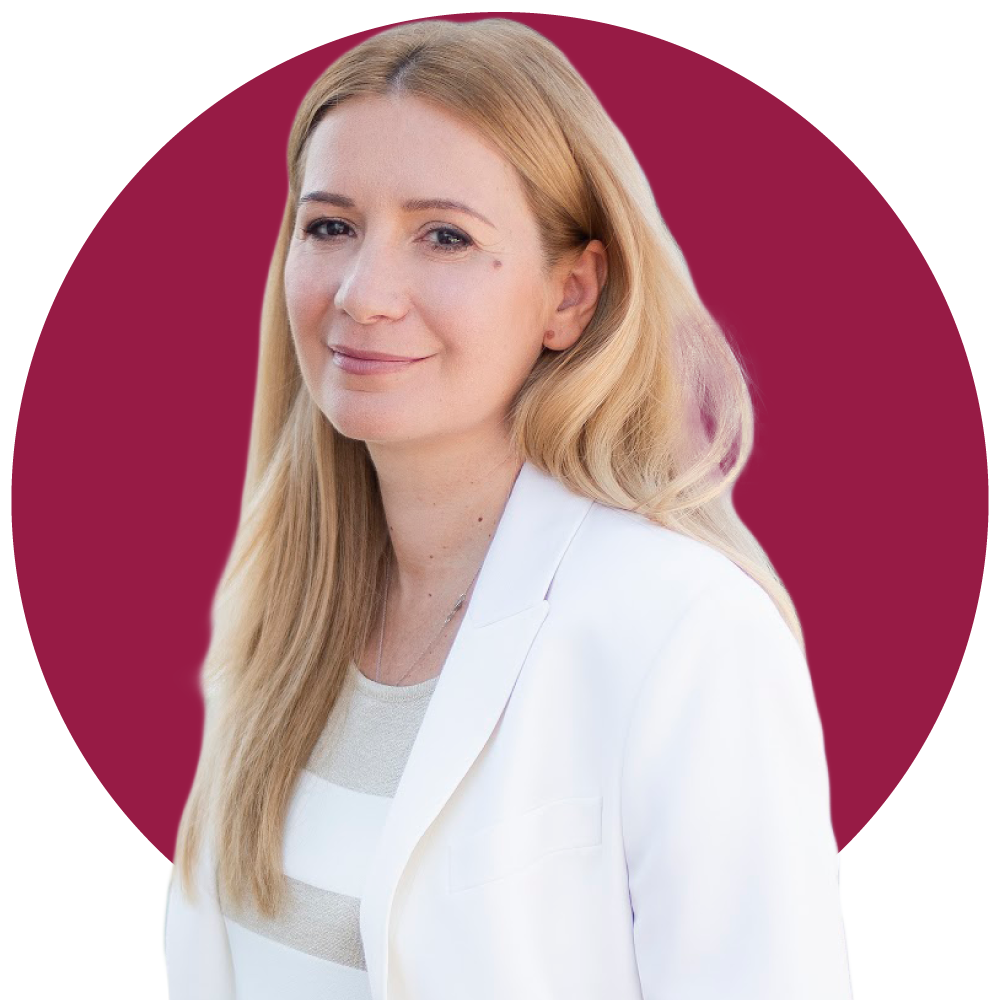
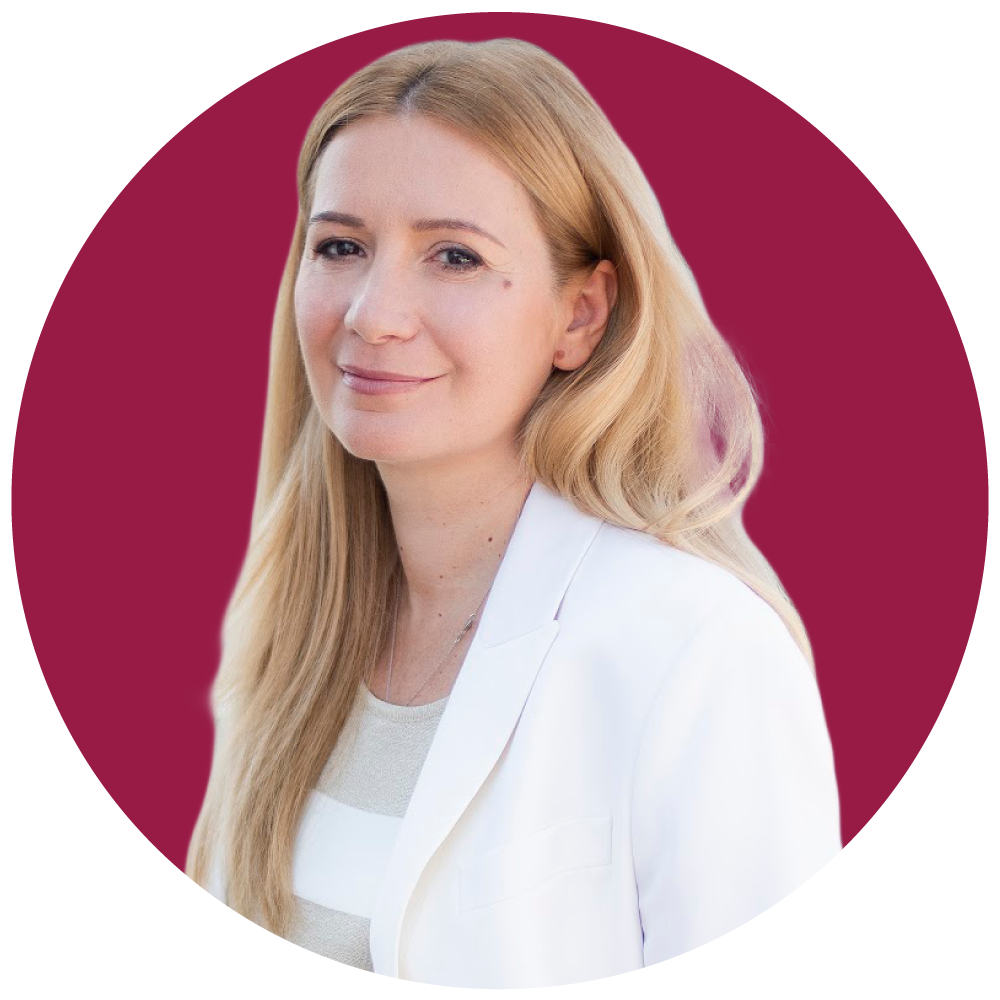
carousel changed layout

Changed region(s): [[0.155, 0.0, 0.868, 1.0], [0.62, 0.868, 0.682, 1.0]]

diff --git a/components/ui/CarouselWithText.js b/components/ui/CarouselWithText.js
@@ -11,7 +11,7 @@ const CarouselComponent = ({ locale, imgArr, textContent }) => {
       {textContent.map((item, index) => (
         <Carousel.Item key={index}>
           <Container>
-            <Row className="d-flex align-items-start">
+            <Row className="d-flex align-items-center">
               <Col xs="12" md="5" lg="4">
                 <Image
                   className="img-fluid d-block mx-auto"
@@ -35,7 +35,7 @@ const CarouselComponent = ({ locale, imgArr, textContent }) => {
 
                   <div className="-my-5 -py-5">
                     {item.quote.map((item, index) => (
-                      <p key={index} className="text-i-l blue mb-3">
+                      <p key={index} className="text-italic blue mb-3">
                         {item}
                       </p>
                     ))}

diff --git a/styles/_global.scss b/styles/_global.scss
@@ -64,8 +64,6 @@ body {
   line-height: normal;
   overflow-x: hidden;
   position: relative;
-
-  // background-color: #dadada;
 }
 
 #__next {
@@ -76,11 +74,7 @@ main {
   margin: 0 auto;
   margin-top: 50px;
   padding: 5rem 1vw;
-
-  display: flex;
-  flex-direction: column;
   max-width: 1440px;
-  // background-color: white;
 
   @include breakpoint(md) {
     margin-top: 75px;
